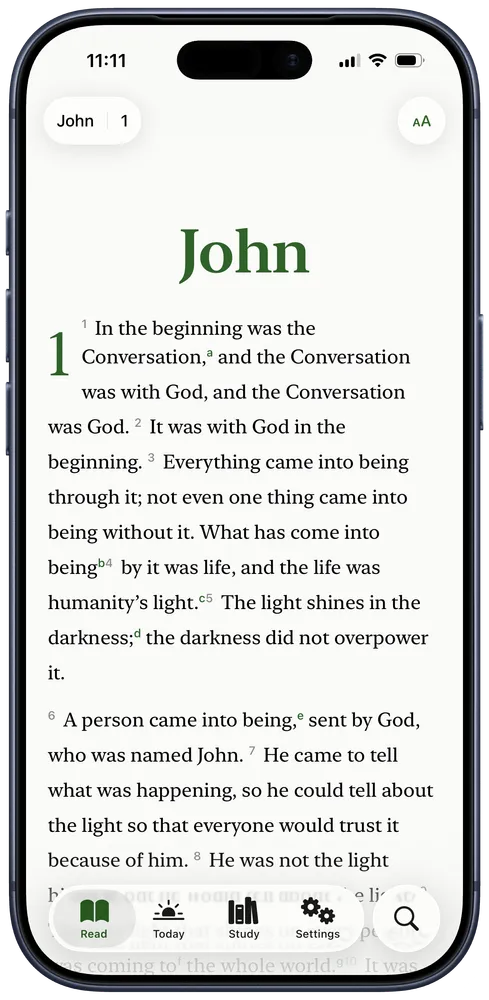
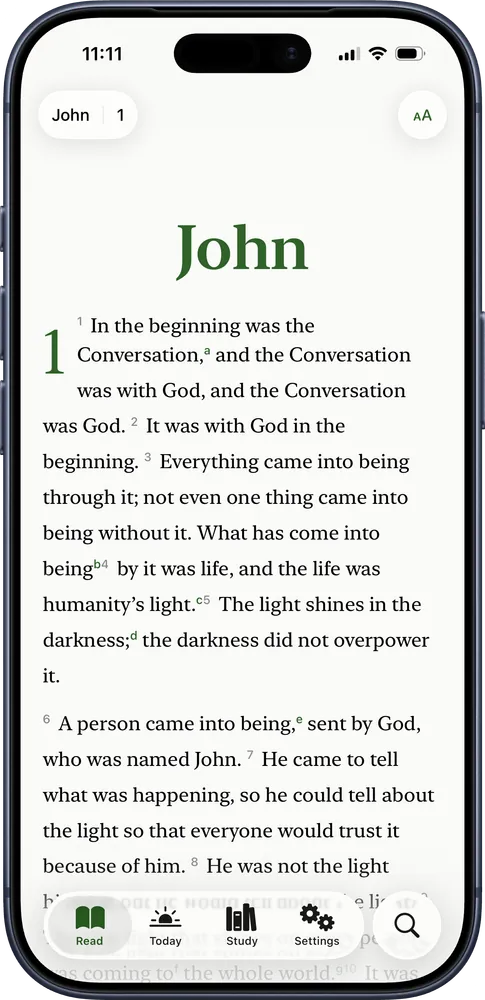
apps: Studio request #2, the showcase line, the carousel's gap, hero phones on one baseline (#403)
- The showcase line, in BDR's words, so it can't read as "your place on
  iPhone Duo."
- The church-year carousel keeps the callouts' own gap above it.
- The hero iPhone picture loses its clear margin, so both phones stand on
  the bottom of the device; the Studio now cuts that margin from every
  picture it converts.

diff --git a/test/apps-studio.test.js b/test/apps-studio.test.js
@@ -446,3 +446,16 @@ test("render.ts and the board draw the inline format identically", () => {
   assert.equal(leavesSite("/privacy"), false);
   assert.equal(leavesSite("https://apps.apple.com/app/x"), true);
 });
+
+test("a picture's clear margin is cut, so devices stand on one baseline", async () => {
+  const { default: sharp } = await import("sharp");
+  const { opaqueBox } = await import("../scripts/apps-studio/store.mjs");
+  const clear = { r: 0, g: 0, b: 0, alpha: 0 };
+  const device = await sharp({ create: { width: 6, height: 10, channels: 4, background: { r: 20, g: 20, b: 20, alpha: 1 } } }).png().toBuffer();
+  const framed = await sharp({ create: { width: 10, height: 16, channels: 4, background: clear } })
+    .composite([{ input: device, left: 2, top: 1 }]).png().toBuffer();
+  assert.deepEqual(await opaqueBox(framed), { left: 2, top: 1, width: 6, height: 10 });
+  assert.equal(await opaqueBox(device), null, "a picture with no clear margin is left alone");
+  const screenshot = await sharp({ create: { width: 4, height: 4, channels: 3, background: "#fff" } }).png().toBuffer();
+  assert.equal(await opaqueBox(screenshot), null, "a picture with no transparency is never cut");
+});

diff --git a/scripts/apps-studio/board/page.css b/scripts/apps-studio/board/page.css
@@ -542,7 +542,7 @@
 
 /* src/components/apps/ChurchYearCarousel.astro */
 .replica .church-year {
-  margin-top: var(--space-5);
+  margin-top: var(--space-7);
   display: grid;
   grid-template-columns: 1fr;
   gap: var(--space-8);

diff --git a/src/components/apps/CLAUDE.md b/src/components/apps/CLAUDE.md
@@ -174,7 +174,12 @@ the templates, and would publish without anyone applying this repo's rules.
   file it wrote before stopping (`undo.mjs`): a replaced file gets its old
   bytes, a new one is removed, nothing else is touched. A raw iPhone or iPad
   screenshot can be framed by the `frames` CLI (Apple devices only, with
-  BDR's saved colors); Android and foldable pictures arrive framed. The app
+  BDR's saved colors); Android and foldable pictures arrive framed. A
+  picture's fully clear margin is cut away before it ships (`opaqueBox` in
+  `store.mjs`; never the icons, never a picture with no transparency), since
+  the page lines devices up by their pictures' edges and a framed iPhone came
+  with a margin the Android picture didn't, which stood it above the hero's
+  baseline (BDR, 2026-10-28). The app
   icons are replaced in place, so the home page, the Android banner and the
   share card follow.
 - **A picture can be added to a section** (BDR, 2026-10-27; first use, an
